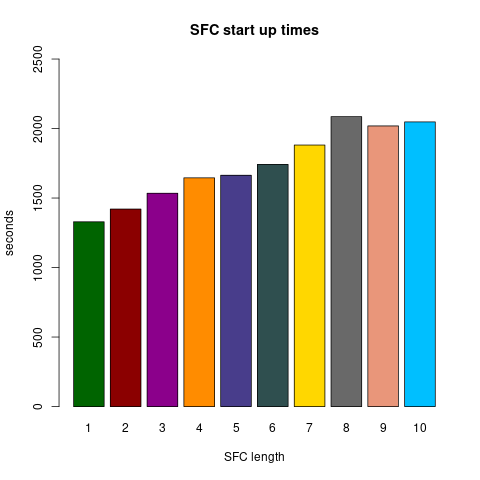
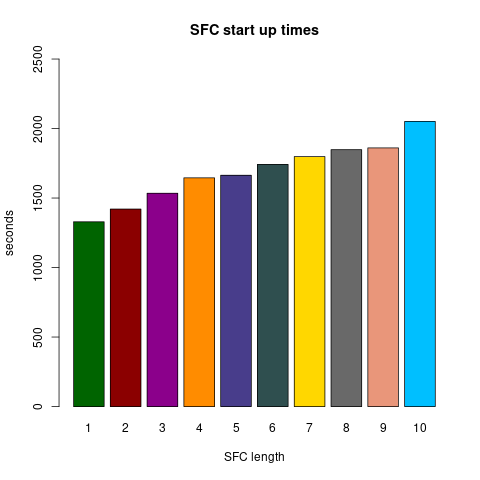
Fix tests with new ones

Changed region(s): [[0.5938, 0.2188, 0.9062, 0.3438]]

diff --git a/res/sections/25-Tests.tex b/res/sections/25-Tests.tex
@@ -153,10 +153,10 @@ deploy time (seconds)} \\ \hline
 \textbf{4}          & 3.592179                   & 16,453                     \\
 \textbf{5}          & 0.9728132                  & 16,634                     \\
 \textbf{6}          & 1.103802                   & 17,418                     \\
-\textbf{7}          & 1.561451                   & 18,815                     \\
-\textbf{8}          & 0.7698537                  & 20,856                     \\
-\textbf{9}          & 1.889197                   & 20,187                     \\
-\textbf{10}         & 1.709227                   & 20,476                     \\
+\textbf{7}          & 2.944699                   & 17.984                     \\
+\textbf{8}          & 1.733722                   & 18.480                     \\
+\textbf{9}          & 1.746296                   & 18.607                     \\
+\textbf{10}         & 1.291508                   & 20.511                     \\
 \caption[SFC start up time]{Table of the results. It is possible to see how the
   time required for the SFC to go up increases with the length, reaching an
   average of 20 seconds for chain of eight, nine and ten elements.}
